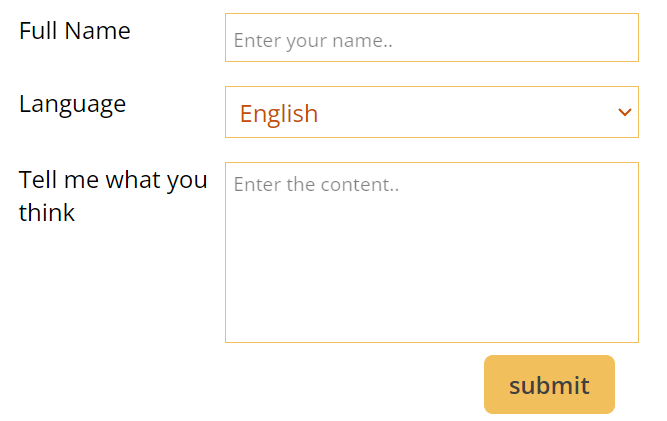
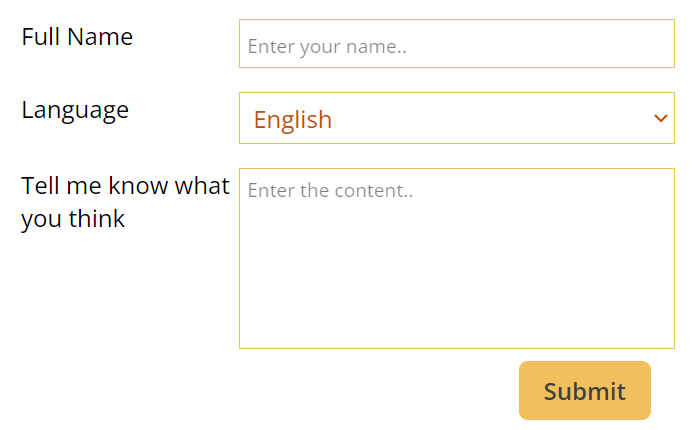
Fix a typo.

diff --git a/index.html b/index.html
@@ -183,11 +183,11 @@
             </select>
           </div>
           <div class="row text-left">
-            <label for="textarea" class="col-4">Tell me what you think</label>
+            <label for="textarea" class="col-4">Tell me know what you think</label>
             <textarea id="textarea" cols="30" rows="5" placeholder="Enter the content.." class="col-8"></textarea>
           </div>
             
-          <input type="submit" value="submit" class="btn float-right">
+          <input type="submit" value="Submit" class="btn float-right">
         </form>
         
       </div>

diff --git a/README.md b/README.md
@@ -480,10 +480,10 @@ Example:
     </div>
 
     <div class="row text-left">
-        <label for="textarea" class="col-4">Tell me what you think</label>
+        <label for="textarea" class="col-4">Tell me know what you think</label>
         <textarea id="textarea" cols="30" rows="5" placeholder="Enter the content.." class="col-8"></textarea>
     </div>
     
-    <input type="submit" value="submit" class="btn float-right">
+    <input type="submit" value="Submit" class="btn float-right">
 </form>
 ```
